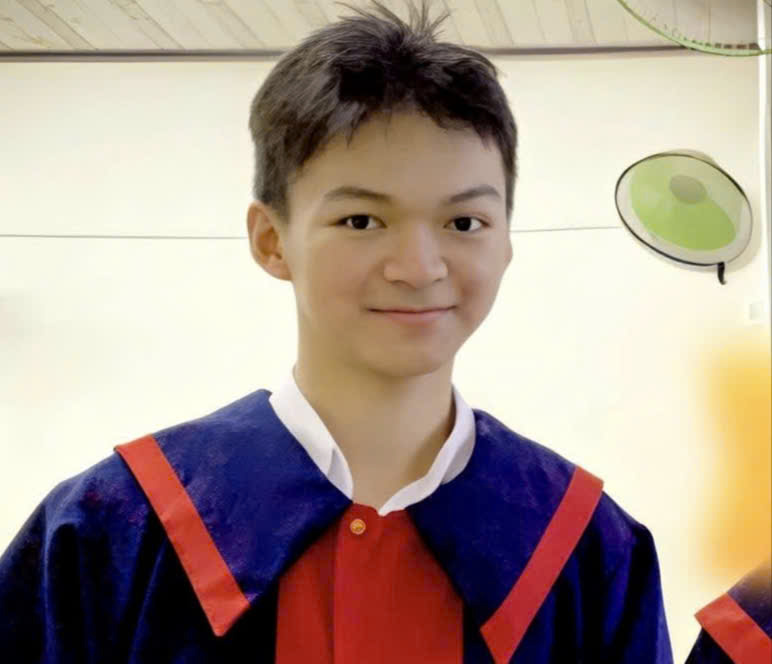
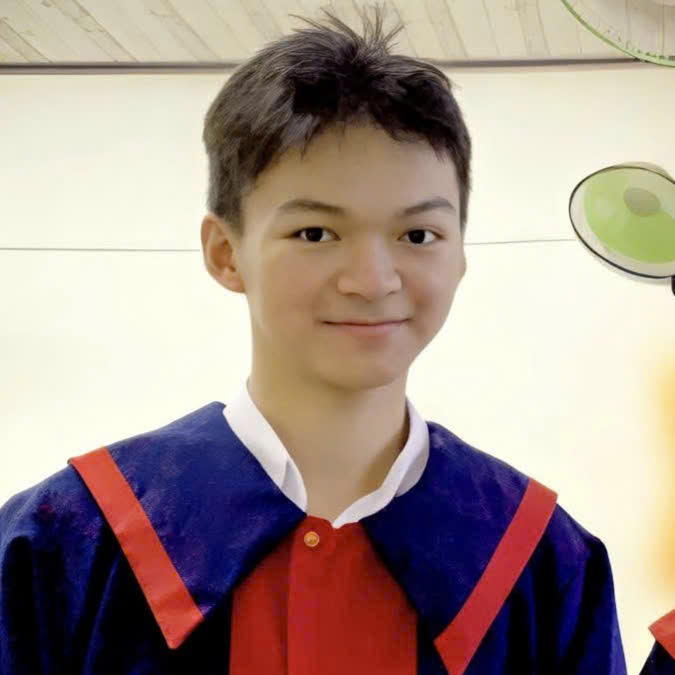
sua contact

diff --git a/_includes/contact.html b/_includes/contact.html
@@ -1,32 +1,32 @@
-<section id="contact">
+<section id="contact" style="padding: 40px 0 30px 0;">
         <div class="container">
             <div class="row">
                 <div class="col-lg-12 text-center">
                     <h2 class="section-heading">Contact Us</h2>
-                    <h3 class="section-subheading text-muted">Lorem ipsum dolor sit amet consectetur.</h3>
+                    <h3 class="section-subheading text-muted">Please do not hesitate to contact us if you have any questions!</h3>
                 </div>
             </div>
             <div class="row">
                 <div class="col-lg-12">
-                    <form name="sentMessage" id="contactForm" novalidate>
+                    <form action="https://formspree.io/f/myezwbez" method="POST" name="sentMessage" id="contactForm">
                         <div class="row">
                             <div class="col-md-6">
                                 <div class="control-group form-group">
-                                    <input type="text" class="form-control" placeholder="Your Name *" id="name" required data-validation-required-message="Please enter your name.">
+                                    <input type="text" class="form-control" placeholder="Your Name *" id="name" name="name" required data-validation-required-message="Please enter your name.">
                                     <p class="help-block text-danger"></p>
                                 </div>
                                 <div class="control-group form-group">
-                                    <input type="email" class="form-control" placeholder="Your Email *" id="email" required data-validation-required-message="Please enter your email address.">
+                                    <input type="email" class="form-control" placeholder="Your Email *" id="email" name="_replyto" required data-validation-required-message="Please enter your email address.">
                                     <p class="help-block text-danger"></p>
                                 </div>
                                 <div class="control-group form-group">
-                                    <input type="tel" class="form-control" placeholder="Your Phone *" id="phone" required data-validation-required-message="Please enter your phone number.">
+                                    <input type="tel" class="form-control" placeholder="Your Phone *" id="phone" name="phone" required data-validation-required-message="Please enter your phone number.">
                                     <p class="help-block text-danger"></p>
                                 </div>
                             </div>
                             <div class="col-md-6">
                                 <div class="control-group form-group">
-                                    <textarea class="form-control" placeholder="Your Message *" id="message" required data-validation-required-message="Please enter a message."></textarea>
+                                    <textarea class="form-control" placeholder="Your Message *" id="message" name="message" required data-validation-required-message="Please enter a message."></textarea>
                                     <p class="help-block text-danger"></p>
                                 </div>
                             </div>
@@ -34,6 +34,16 @@
                             <div class="col-lg-12 text-center">
                                 <div id="success"></div>
                                 <button type="submit" class="btn btn-xl">Send Message</button>
+                            </div>
+                        </div>
+                        <div class="row" style="margin-top: 30px;">
+                            <div class="col-lg-12 text-center" style="color: #fff;">
+                               <p><i class="fa fa-map-marker fa-2x"></i></p>
+                               <p style="font-size: 16px;">
+                                    {% for line in site.address %}
+                                    {{ line.line }}<br>
+                                    {% endfor %}
+                                </p>
                             </div>
                         </div>
                     </form>

diff --git a/_includes/team.html b/_includes/team.html
@@ -9,7 +9,7 @@
             </div>
             <div class="row">
                 {% for member in site.people %}
-                <div class="col-sm-4">
+                <div class="col-sm-4" style="width: 20%; float: left;">
                     <div class="team-member">
                         <img src="img/team/{{ member.pic }}.jpg" class="img-responsive img-circle" alt="">
                         <h4>{{ member.name }}</h4>

diff --git a/_layouts/default.html b/_layouts/default.html
@@ -11,7 +11,6 @@
     {% include portfolio_grid.html %}
     {% include about.html %}
     {% include team.html %}
-    {% include clients.html %}
     {% include contact.html %}
     {% include footer.html %}
     {% include modals.html %}
